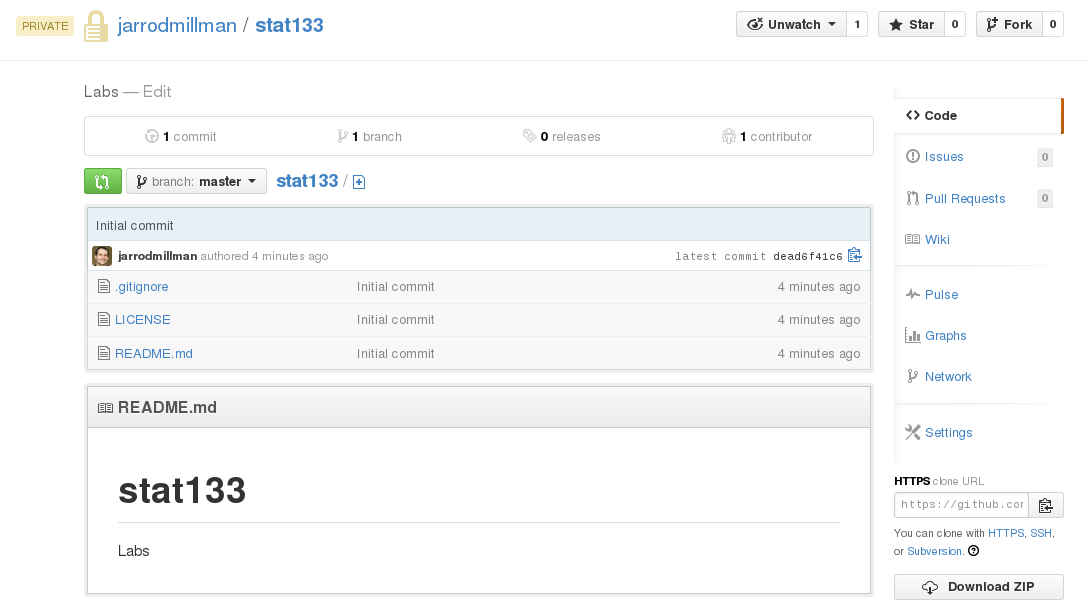
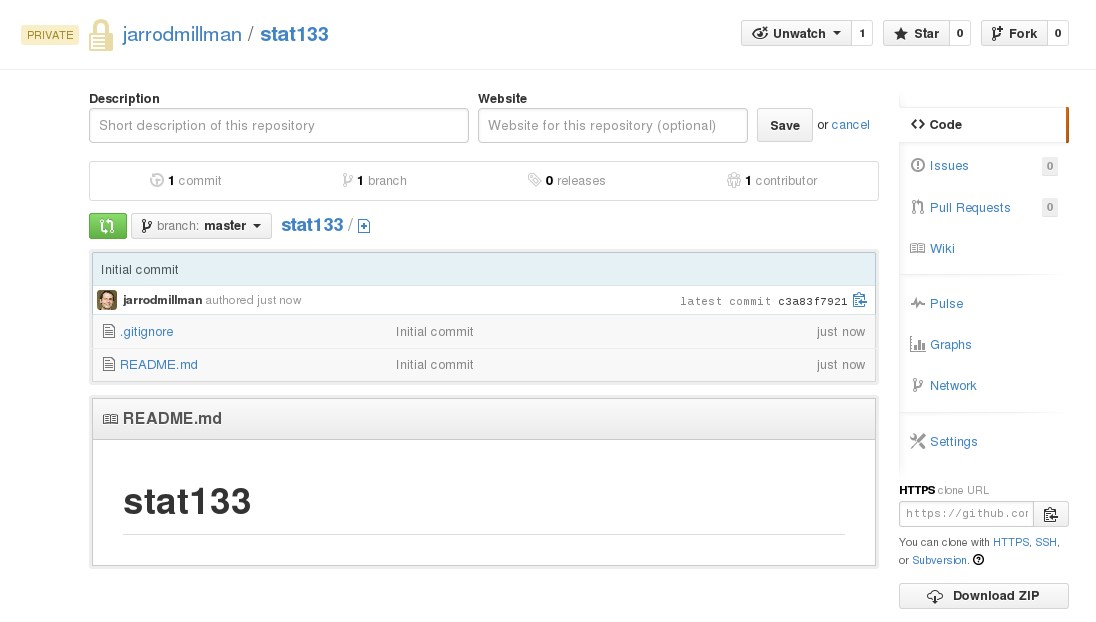
Student feedback

diff --git a/content/2014-01-31-lab1.md b/content/2014-01-31-lab1.md
@@ -8,7 +8,11 @@ In this lab, you will:
 1. Setup ``git``
 2. Create a private homework repository on Github
 3. Create an ``info.py`` file
-4. **EXTRA:**  Revisit HW 1, Exercise 17
+
+You will need:
+
+1. A Github educational account
+2. More text 
 
 ## Setup ``git``
 
@@ -84,7 +88,7 @@ your repositories main page, you should see a button labelled
 "Settings".  Click on the "Settings" button will take you to
 a page where you can edit various settings for your repository.
 Choose the "Collaborators" button on the "Settings" page and
-add me, ``jarrodmillman``.
+add me, ``jarrodmillman``, as well as the instructor, ``BenoitDherin``.
 
 ![Github Add Collaborator]({filename}/images/github_add_collab.png)
 
@@ -102,10 +106,10 @@ $ git clone https://github.com/jarrodmillman/stat133.git
 Cloning into 'stat133'...
 Username for 'https://github.com': jarrodmillman
 Password for 'https://jarrodmillman@github.com': 
-remote: Counting objects: 5, done.
+remote: Counting objects: 4, done.
 remote: Compressing objects: 100% (3/3), done.
-remote: Total 5 (delta 0), reused 0 (delta 0)
-Unpacking objects: 100% (5/5), done.
+remote: Total 4 (delta 0), reused 0 (delta 0)
+Unpacking objects: 100% (4/4), done.
 Checking connectivity... done.
 ```
 Now take a look at what is inside your repo:
@@ -113,9 +117,9 @@ Now take a look at what is inside your repo:
 ```bash
 $ cd stat133/
 $ ls
-LICENSE  README.md
+README.md
 $ ls -a
-.  ..  .git  .gitignore  LICENSE  README.md
+.  ..  .git  .gitignore  README.md
 ```
 
 ## Create an ``info.py`` file
@@ -137,7 +141,7 @@ If you aren't in the correct directory, you need to change your working director
 cd ~/src/stat133
 ```
 
-Create a new file, called ``info.py``, and open it with your text editor.  Now
+Open your text editor and create a new file, called ``info.py``.  Now
 add the following content (replacing the values I've set with your own):
 
 ```python
@@ -233,61 +237,3 @@ something like this:
 
 Note that there is now a new file and the number of commits has
 been incremented to 2.
-
-## **EXTRA:**  Revisit HW 1, Exercise 17
-
-Exercise 17 in Learn Python The Hard Way provides the
-following script:
-
-```python
-from sys import argv
-from os.path import exists
-
-script, from_file, to_file = argv
-
-print "Copying from %s to %s" % (from_file, to_file)
-
-# we could do these two on one line too, how?
-in_file = open(from_file)
-indata = in_file.read()
-
-print "The input file is %d bytes long" % len(indata)
-
-print "Does the output file exist? %r" % exists(to_file)
-print "Ready, hit RETURN to continue, CTRL-C to abort."
-raw_input()
-
-out_file = open(to_file, 'w')
-out_file.write(indata)
-
-print "Alright, all done."
-
-out_file.close()
-in_file.close() 
-```
-
-Make sure you are in the top-level directory of your repository:
-
-```bash
-pwd
-```
-
-If you aren't in the correct directory, you need to change your working directory:
-
-```bash
-cd ~/src/stat133
-```
-
-Download my example ``lab1.py``:
-
-```bash
-curl -O http://berkeley-stat133.github.io/files/lab1.py
-```
-
-Now you need to add and commit this file to your repository:
-
-```bash
-git status
-git add lab1.py
-git commit -m "Add lab1 script from GSI"
-```
